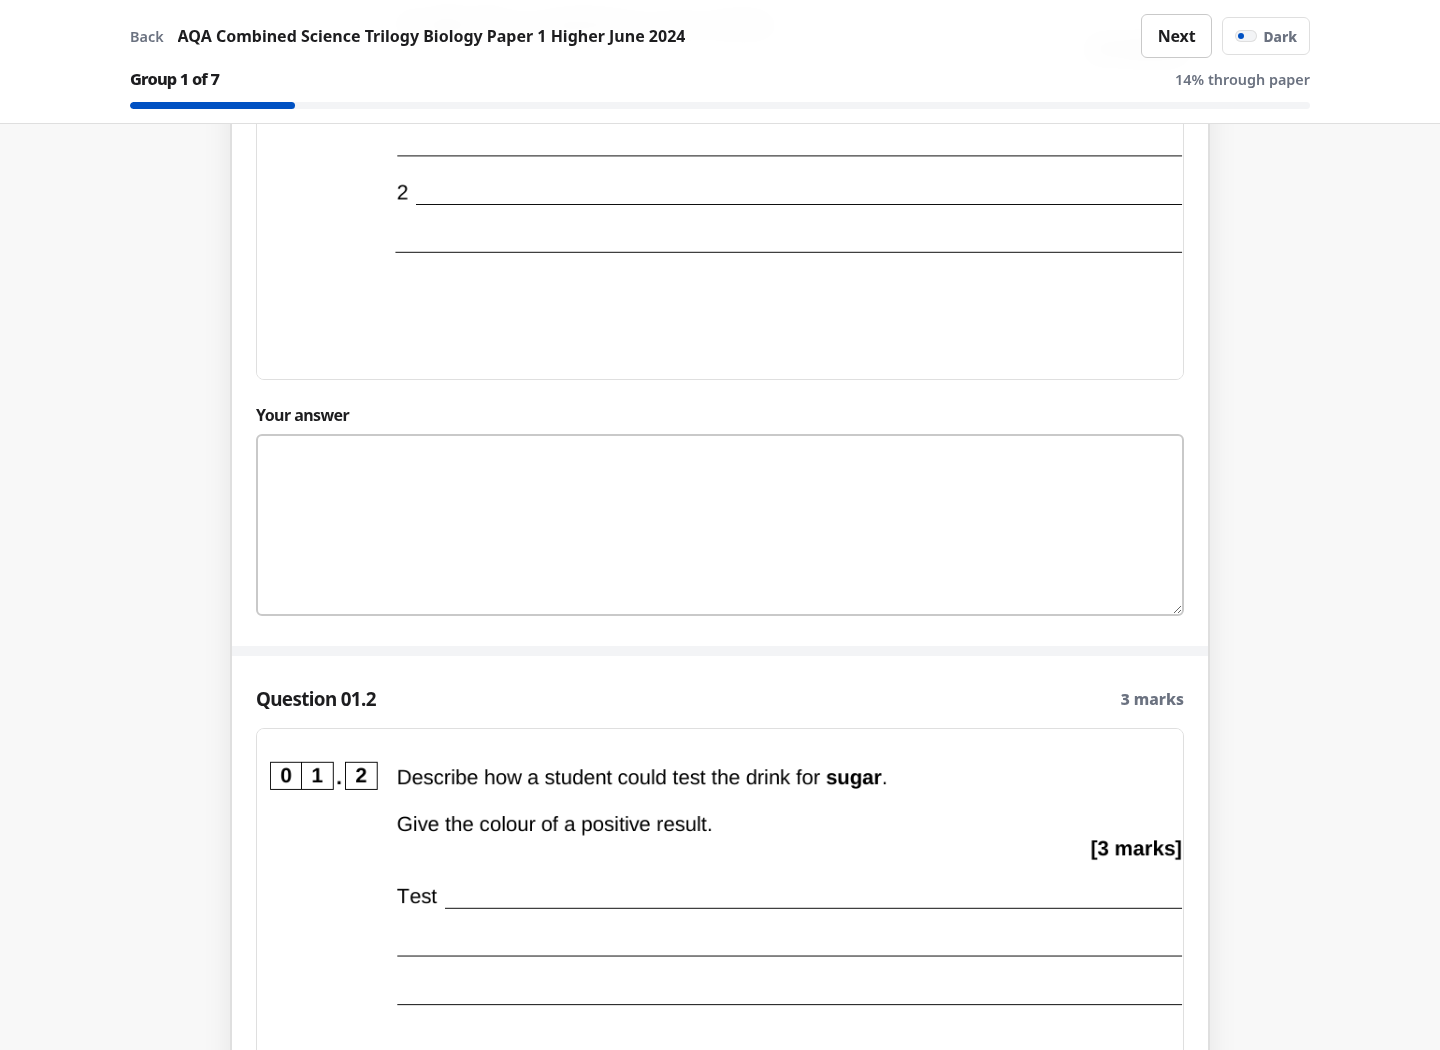
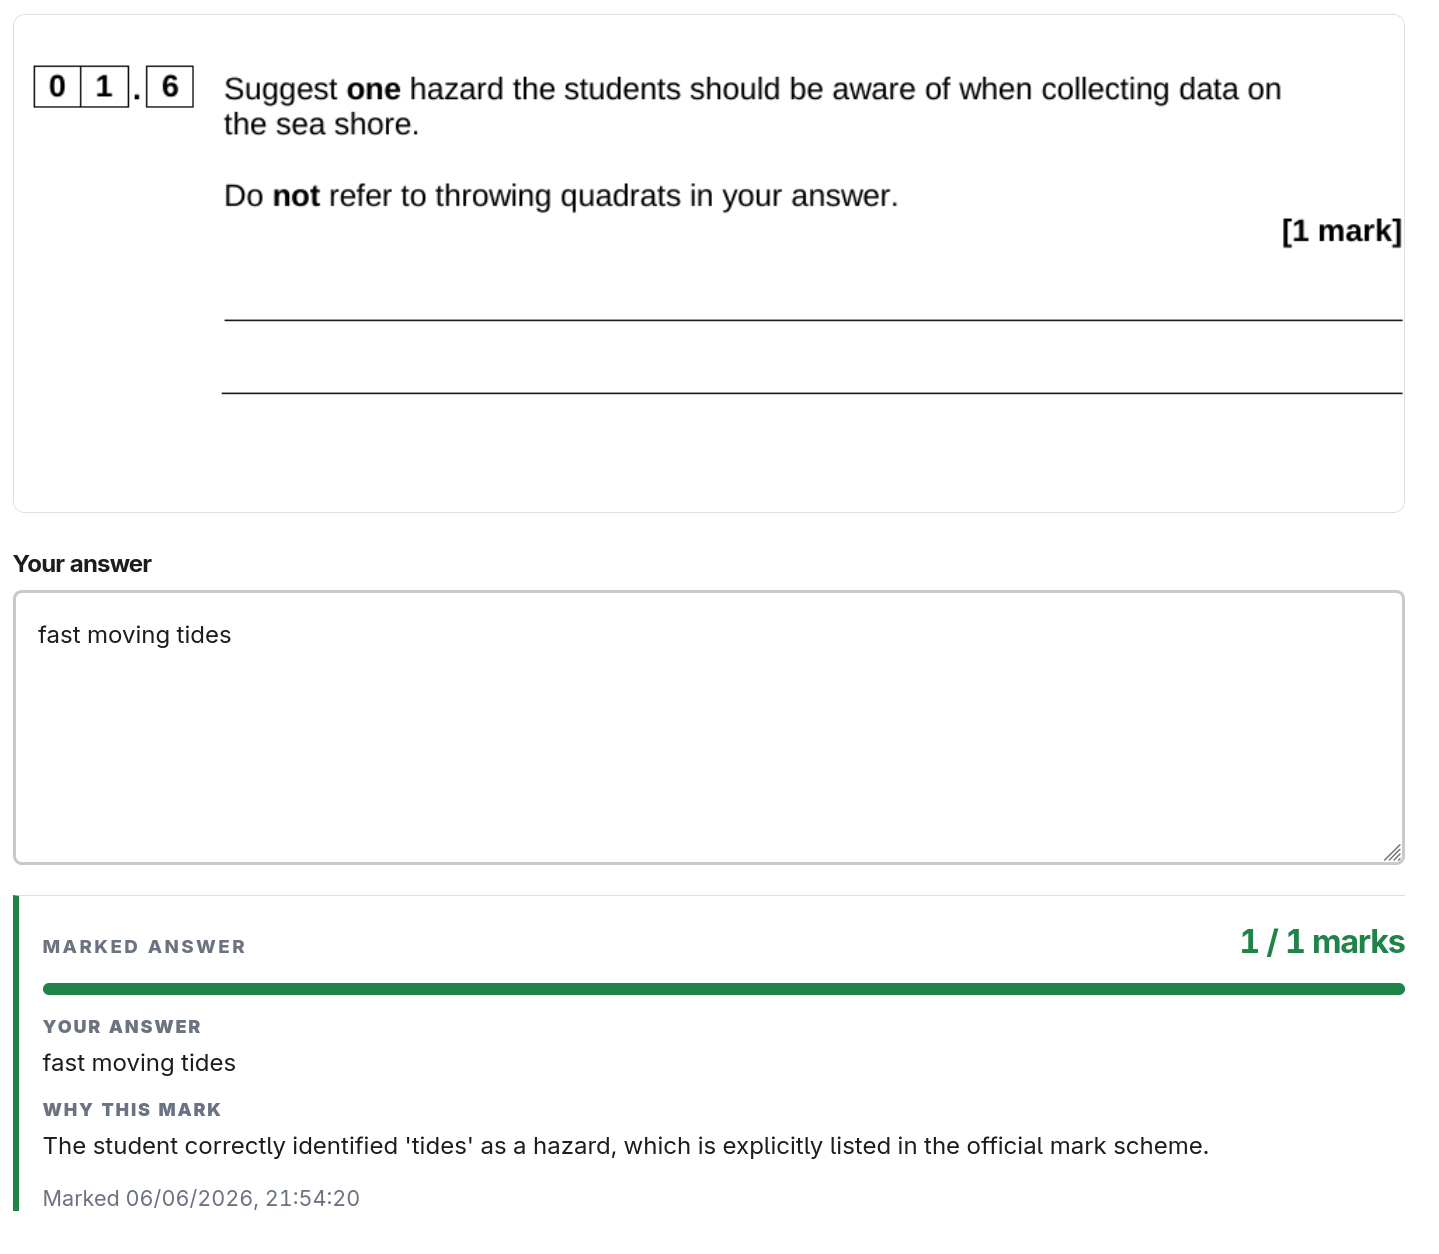
Update IHateGCSE portfolio showcase

diff --git a/src/render.ts b/src/render.ts
@@ -82,15 +82,50 @@ const githubLogo = `
   </svg>
 `;
 
+const linkLogo = `
+  <svg class="button-link-icon" viewBox="0 0 24 24" aria-hidden="true" focusable="false">
+    <path
+      fill="none"
+      stroke="currentColor"
+      stroke-linecap="round"
+      stroke-linejoin="round"
+      stroke-width="2"
+      d="M10 13a5 5 0 0 0 7.54.54l3-3a5 5 0 0 0-7.07-7.07l-1.72 1.71M14 11a5 5 0 0 0-7.54-.54l-3 3a5 5 0 0 0 7.07 7.07l1.71-1.71"
+    />
+  </svg>
+`;
+
+const renderFeaturedProjectActions = (links: readonly LinkItem[]) =>
+  `<ul class="featured-action-list">${links
+    .map((link) => {
+      const isGitHub = link.label.toLowerCase() === "github";
+      const className = isGitHub ? "button-link github-link" : "button-link primary-link";
+      const label = isGitHub
+        ? githubLogo
+        : `${linkLogo}<span>${escapeHtml(new URL(link.href).hostname.replace(/^www\./, ""))}</span>`;
+      const ariaLabel = isGitHub ? ` aria-label="${escapeHtml(link.label)}"` : "";
+
+      return `
+        <li>
+          <a class="${className}" href="${escapeHtml(link.href)}" target="_blank" rel="noopener noreferrer"${ariaLabel}>
+            ${label}
+          </a>
+        </li>
+      `;
+    })
+    .join("")}</ul>`;
+
 const mainWebsiteUrl = "https://williamhanlon.com/";
 
 const languageBadgeStyles: Record<string, { readonly color: string; readonly logo: string; readonly logoColor: string }> = {
   ansible: { color: "EE0000", logo: "ansible", logoColor: "white" },
+  claudecode: { color: "D97757", logo: "claude", logoColor: "white" },
   docker: { color: "2496ED", logo: "docker", logoColor: "white" },
   githubactions: { color: "2088FF", logo: "githubactions", logoColor: "white" },
   go: { color: "00ADD8", logo: "go", logoColor: "white" },
   linux: { color: "FCC624", logo: "linux", logoColor: "171717" },
   lua: { color: "2C2D72", logo: "lua", logoColor: "white" },
+  kubernetes: { color: "326CE5", logo: "kubernetes", logoColor: "white" },
   nodedotjs: { color: "5FA04E", logo: "nodedotjs", logoColor: "white" },
   proxmox: { color: "E57000", logo: "proxmox", logoColor: "white" },
   python: { color: "3776AB", logo: "python", logoColor: "white" },
@@ -98,7 +133,7 @@ const languageBadgeStyles: Record<string, { readonly color: string; readonly log
   typescript: { color: "3178C6", logo: "typescript", logoColor: "white" },
 };
 
-const heroTechnologies = ["Linux", "Proxmox", "Docker", "Rust", "Python", "TypeScript", "Node.js", "GitHub Actions", "Ansible"];
+const heroTechnologies = ["Linux", "Proxmox", "Docker", "Codex", "Claude Code", "Python", "Kubernetes", "GitHub Actions", "Ansible"];
 
 const getBadgeStyle = (label: string) => {
   const slug = label.toLowerCase().replace(/\./g, "dot").replace(/[^a-z0-9]+/g, "");
@@ -114,6 +149,19 @@ const getBadgeStyle = (label: string) => {
 
 const renderBadgeImage = (label: string, className: string) => {
   const { badge } = getBadgeStyle(label);
+
+  if (label === "Codex") {
+    return `
+      <img
+        class="${className}"
+        src="/codex-badge.svg"
+        alt="Codex"
+        loading="lazy"
+        decoding="async"
+      />
+    `;
+  }
+
   const src = `https://img.shields.io/badge/${encodeURIComponent(label)}-${badge.color}?style=flat-square&logo=${encodeURIComponent(badge.logo)}&logoColor=${encodeURIComponent(badge.logoColor)}`;
 
   return `
@@ -158,7 +206,7 @@ const renderFeaturedProject = (project: FeaturedProject) => `
       </dl>
       ${renderLanguageBadges(project.languages)}
       <div class="featured-project-actions">
-        ${renderLinks(project.links)}
+        ${renderFeaturedProjectActions(project.links)}
       </div>
     </div>
 
@@ -394,8 +442,8 @@ export const renderAppHtml = () => `
 
       <article class="info-panel" data-scroll-reveal>
         <div class="section-heading compact">
-          <p class="eyebrow">Direction</p>
-          <h2 id="ai-heading">Current interests</h2>
+          <p class="eyebrow">Focus</p>
+          <h2 id="ai-heading">AI-based development</h2>
         </div>
         ${renderBulletList(siteData.ai, "panel-list")}
       </article>

diff --git a/src/styles.css b/src/styles.css
@@ -165,7 +165,7 @@ select {
 .hero-tech {
   display: grid;
   gap: 0.7rem;
-  max-width: 34rem;
+  max-width: 36rem;
   margin-top: clamp(1.8rem, 5vw, 4rem);
 }
 
@@ -215,6 +215,13 @@ select {
   width: 1.25rem;
   height: 1.25rem;
   flex: 0 0 auto;
+}
+
+.button-link-icon {
+  width: 1.15rem;
+  height: 1.15rem;
+  flex: 0 0 auto;
+  margin-right: 0.45rem;
 }
 
 .button-link:focus-visible,
@@ -429,7 +436,7 @@ select {
 .hero-media {
   --scroll-y: var(--scroll-media-y, 0px);
   min-width: 0;
-  transform: translate3d(0, calc(var(--reveal-y, 0px) + var(--scroll-y)), 0) scale(var(--scroll-media-scale, 1));
+  transform: translate3d(0, calc(var(--reveal-y, 0px) + var(--scroll-y)), 0);
 }
 
 .carousel-shell {
@@ -709,10 +716,6 @@ select {
   opacity: 1;
 }
 
-.js .hero-media[data-scroll-reveal] {
-  transform: translate3d(0, calc(var(--reveal-y) + var(--scroll-y)), 0) scale(var(--scroll-media-scale, 1));
-}
-
 .info-panel,
 .section-block {
   border-top: 1px solid var(--rule);
@@ -893,8 +896,13 @@ select {
   text-transform: uppercase;
 }
 
-.featured-project-actions .project-links {
+.featured-action-list {
+  display: flex;
+  flex-wrap: wrap;
+  gap: 0.75rem;
   margin-top: 0.25rem;
+  padding: 0;
+  list-style: none;
 }
 
 .featured-project-media {

diff --git a/src/content/site.ts b/src/content/site.ts
@@ -103,25 +103,25 @@ export const siteData = {
     "I have experimented with GitOps and Kubernetes.",
   ],
   ai: [
-    "I have had a strong interest in AI, all the way since before GPT-3.",
-    "I use AI development tools heavily, such as Claude Code and Codex.",
+    "I use Codex heavily as part of my development workflow.",
+    "I also use Claude Code and have had a strong interest in AI since before GPT-3.5.",
     "I experiment with local models and use OpenRouter for inference.",
     "I keep up with the current model landscape and understand concepts like mixture-of-experts.",
   ],
   featuredProject: {
     name: "IHateGCSE",
     url: "https://ihategcse.com",
-    languages: "TypeScript, Node.js, Docker, GitHub Actions",
+    languages: "TypeScript, Node.js, Docker, GitHub Actions, Linux, Codex",
     type: "Revision platform",
     summary:
       "A GCSE revision website that turns past papers into a marked practice flow.",
     description:
       "IHateGCSE imports real PMT papers and mark schemes, splits papers into question groups, renders question crops automatically, then allows students to answer actual past papers and get instant AI marking, sourced with the actual mark scheme. I'm self-hosting the entire project on my homelab.",
     stats: [
-      { value: "45", label: "imported papers" },
-      { value: "1,126", label: "question parts" },
-      { value: "3,124", label: "marks available" },
-      { value: "11", label: "course groups" },
+      { value: "55", label: "imported papers" },
+      { value: "1,264", label: "question parts" },
+      { value: "3,830", label: "marks available" },
+      { value: "12", label: "course groups" },
     ],
     features: [
       {
@@ -150,12 +150,12 @@ export const siteData = {
       },
       {
         src: "/followthescheme-paper.png",
-        alt: "IHateGCSE Biology answer page showing visible answer boxes for a 2024 AQA paper.",
-        caption: "Biology practice with visible answer boxes, marks and navigation.",
+        alt: "IHateGCSE Biology answer page showing an AI-marked answer awarded one mark.",
+        caption: "Biology practice with an answer marked against the official mark scheme.",
       },
     ],
     links: [
-      { label: "Website", href: "https://ihategcse.com" },
+      { label: "Website", href: "https://ihategcse.com/demo/portfolio" },
       { label: "GitHub", href: "https://github.com/stackwill/follow-the-scheme" },
     ],
   } satisfies FeaturedProject,

diff --git a/src/main.ts b/src/main.ts
@@ -181,7 +181,6 @@ const setStaticScrollState = () => {
     target.style.setProperty("--scroll-progress", "0");
     target.style.setProperty("--scroll-copy-y", "0px");
     target.style.setProperty("--scroll-media-y", "0px");
-    target.style.setProperty("--scroll-media-scale", "1");
     target.style.setProperty("--scroll-section-y", "0px");
   });
 
@@ -209,7 +208,6 @@ const updateScrollEffects = () => {
     target.style.setProperty("--scroll-progress", progress.toFixed(3));
     target.style.setProperty("--scroll-copy-y", `${(-22 * lead).toFixed(1)}px`);
     target.style.setProperty("--scroll-media-y", `${(34 * lead).toFixed(1)}px`);
-    target.style.setProperty("--scroll-media-scale", (1 - lead * 0.035).toFixed(3));
     target.style.setProperty("--scroll-section-y", `${(-16 * lead).toFixed(1)}px`);
   });
 